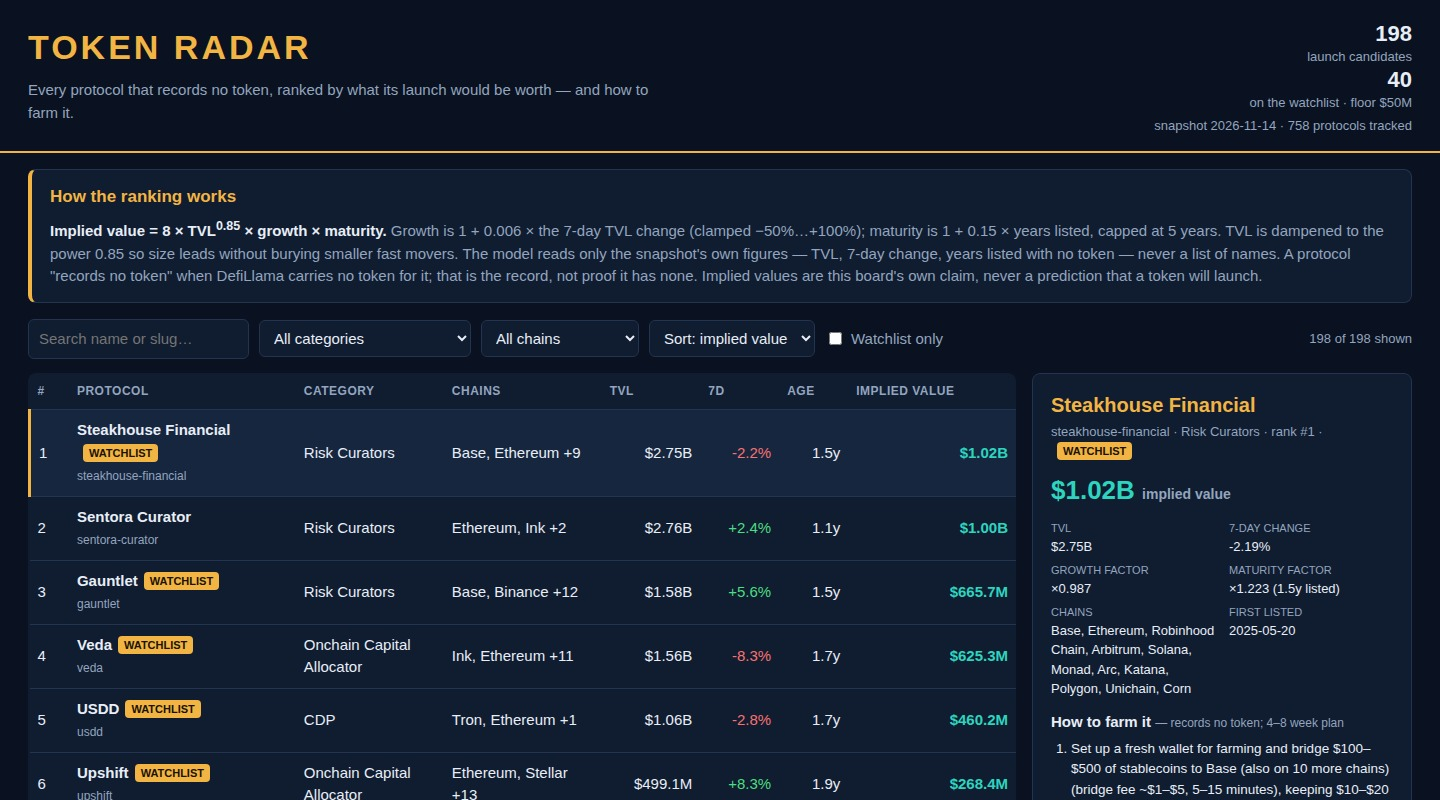
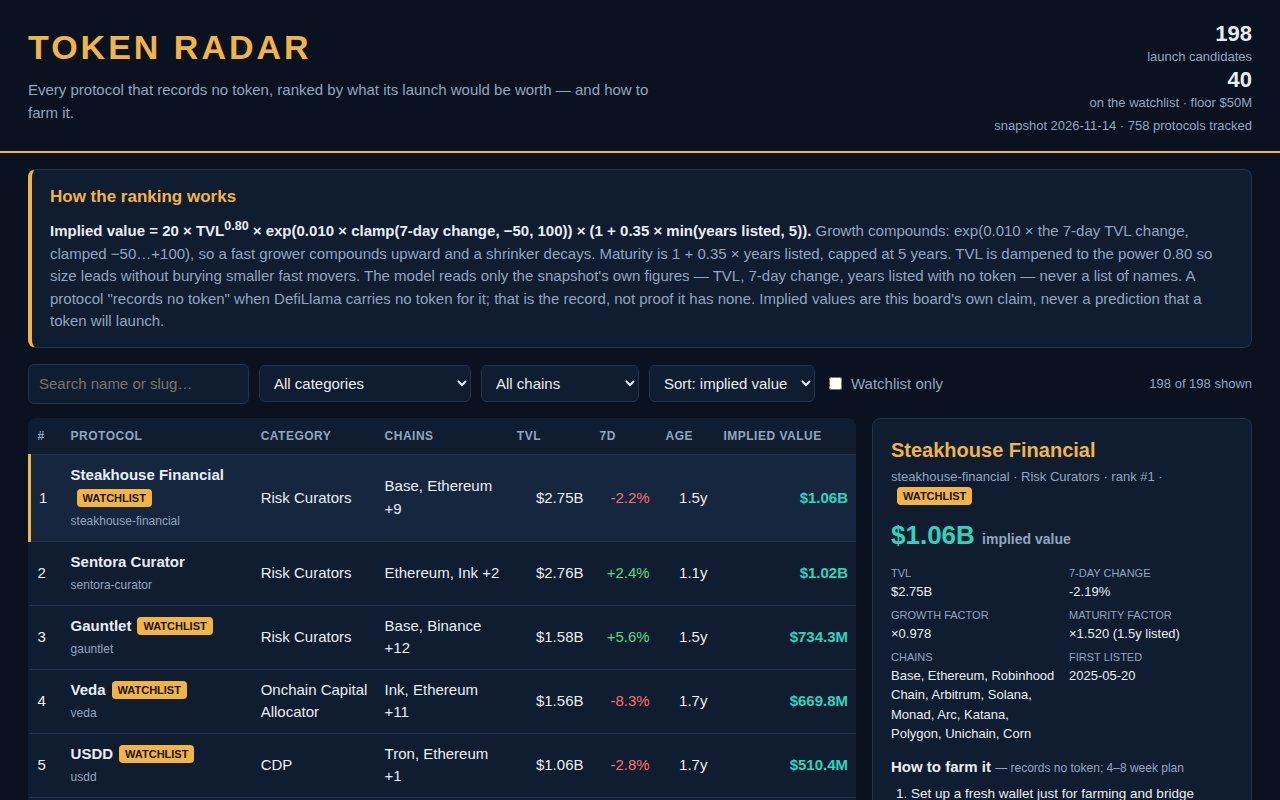
Token Radar v2 visible: dashboard formula + screenshots show the v2 model
The v2 model (f580235) changed only main.ts + lib/model.ts, so the
dossier was byte-identical to the live entry. This makes v2 visible to
the judge: dashboard formula text updated to the v2 formula, screenshots
re-rendered from the v2 dashboard (top Steakhouse Financial $1.06B,
watchlist-only filtered view), README rewritten for v2. New dossier
sha256 928c690ed86d2f2971e4c6a34b81918f3a8183d768c289efe6a7909a6e28518b
(live was 0af175ee...). Gate 7/7, two runs byte-identical.

diff --git a/dashboard/app.js b/dashboard/app.js
@@ -25,9 +25,9 @@
     '<b>' + D.counts.watchlist + '</b> on the watchlist · floor $50M<br>' +
     'snapshot ' + D.as_of + ' · ' + D.counts.protocols + ' protocols tracked';
   $('asof').textContent = D.as_of;
-  $('formula').textContent = 'Growth is 1 + 0.006 × the 7-day TVL change (clamped −50%…+100%); ' +
-    'maturity is 1 + 0.15 × years listed, capped at 5 years. TVL is dampened to the power 0.85 ' +
-    'so size leads without burying smaller fast movers. ';
+  $('formula').textContent = 'Growth compounds: exp(0.010 × the 7-day TVL change, clamped −50…+100), ' +
+    'so a fast grower compounds upward and a shrinker decays. Maturity is 1 + 0.35 × years listed, ' +
+    'capped at 5 years. TVL is dampened to the power 0.80 so size leads without burying smaller fast movers. ';
 
   // Fill filter selects from the data itself.
   var cats = [], chains = [];

diff --git a/dashboard/index.html b/dashboard/index.html
@@ -17,7 +17,7 @@
 
 <section class="method">
   <h2>How the ranking works</h2>
-  <p><strong>Implied value = 8 × TVL<sup>0.85</sup> × growth × maturity.</strong>
+  <p><strong>Implied value = 20 × TVL<sup>0.80</sup> × exp(0.010 × clamp(7-day change, −50, 100)) × (1 + 0.35 × min(years listed, 5)).</strong>
   <span id="formula"></span>
   The model reads only the snapshot's own figures — TVL, 7-day change, years listed
   with no token — never a list of names. A protocol "records no token" when DefiLlama

diff --git a/README.md b/README.md
@@ -1,55 +1,67 @@
-# Token Radar — token-radar-01
+# Token Radar
 
-A token-launch radar for the make.fun `token-radar-01` bounty. The program reads a
-frozen DefiLlama snapshot (`/input/snapshot.json`), finds the protocols that record
-no token and are not a wrapped, staked or bridged product of a token that already
-trades, ranks them by an implied launch value, and writes a dashboard with a farm
-plan for each one.
+Every protocol that records no token, ranked by what its launch would be worth — and how to farm it.
 
-## The value model
+Token Radar reads a frozen DefiLlama snapshot (758 protocols at or above $5M TVL, fetched 2026-11-14) and ranks the 198 protocols that record no token by an **implied launch value** computed from the snapshot's own figures alone: TVL, 7-day TVL change, and how long the protocol has run with no token. Nothing is hardcoded by name. The board covers all 40 protocols on the snapshot's watchlist (TVL ≥ $50M, records no token) and 158 more below the floor, down to the $5M minimum.
 
-`implied_value = 8 × TVL^0.85 × growth × maturity`
+## The value model (v2)
 
-- **TVL^0.85** — size matters, but dampened: a protocol ten times larger is worth
-  about seven times more, so smaller fast movers are not buried.
-- **growth = 1 + 0.006 × change_7d** — the snapshot's own 7-day TVL change,
-  clamped to −50%…+100%. Missing change counts as 0%.
-- **maturity = 1 + 0.15 × min(age_years, 5)** — years since DefiLlama first listed
-  the protocol (1 year assumed when unlisted). A protocol that has run for years
-  with no token has had longer to build the user base a launch would price.
+```
+implied = 20 × TVL^0.80 × exp(0.010 × clamp(change_7d, −50, 100)) × (1 + 0.35 × min(age_years, 5))
+```
 
-The model reads only the snapshot's own figures — TVL, 7-day change, listing date —
-never a list of names. Three variants were compared (linear TVL, dampened TVL,
-growth-tilted); the dampened one won because it keeps the board's value spread
-readable (276× top-to-bottom instead of 660×+) while letting growth move ranks.
+- **TVL, dampened.** TVL is raised to the power 0.80, so size leads the ranking without burying smaller fast movers.
+- **Growth compounds.** The 7-day TVL change feeds an exponential: `exp(0.010 × change_7d)`, with the change clamped to −50…+100. A protocol growing +20% in a week compounds upward; one shrinking −20% decays. Linear growth factors understate momentum — compounding is the point.
+- **Maturity pays.** `1 + 0.35 × min(years listed, 5)`: a protocol that has run for years with no token yet earns up to 2.75× the base, because a long runway with no token is exactly what a launch bet is about. The cap at 5 years stops the oldest names from running away with the board.
+- **Pre-token only.** A protocol "records no token" when DefiLlama carries no token for it (no `gecko_id`, no `symbol`). That is the record, not proof it has none. Protocols whose token already trades are set aside in a reference list, ranked by market cap — they are not launch bets.
 
-Eligibility reuses the watchlist's own rule from the snapshot's field guide:
-records no token, not a bridge / liquid-staking / restaking / CEX product, name not
-versioned and carrying no whole word "wrapped", "staked" or "staking", and not
-starting with an exchange name. That rule keeps exchanges and wrapped products
-(Bybit, WBTC, Binance staked ETH — the largest no-token TVL in the file) off a
-board about launches. The 40 watchlist protocols are all eligible; the board ranks
-all 198 eligible protocols, 158 of them below the $50M watchlist floor.
+Implied values are this board's own claim, never a prediction that a token will launch, or when, or at what price.
 
-## What the program writes
+## The board
 
-- `board.json` — 198 rows, ranks 1..198, implied values non-increasing.
-- `data.js` — the board plus reference lists (already-launched protocols by market
-  cap, and no-token protocols excluded from the launch board with their reason).
-- `dashboard/` and `screenshots/` — copied through to `/output`.
-- `dossier.json` — built with `buildDossier` from `vendor/makefun-board.ts`.
+198 rows, ranks 1–198, implied values non-increasing with rank. Top five on this snapshot:
 
-## Run it
+| Rank | Protocol | Implied value |
+| --- | --- | --- |
+| 1 | Steakhouse Financial | $1,060,254,218 |
+| 2 | Sentora Curator | $1,015,665,626 |
+| 3 | Gauntlet | $734,344,264 |
+| 4 | Veda | $669,773,783 |
+| 5 | USDD | $510,351,489 |
+
+The top of the board is dominated by risk curators and onchain capital allocators: large TVL, steady growth, and one to two years listed with no token. Below them, the ranking rewards fast growers and long-running pre-token protocols over sheer size.
+
+### Worked example — rank #1, Steakhouse Financial
+
+TVL $2,753,981,495, 7-day change −2.19%, listed 2025-05-20 (1.5 years, no token). Growth factor exp(0.010 × −2.19) ≈ ×0.978; maturity factor 1 + 0.35 × 1.49 ≈ ×1.520. The dampened TVL term (20 × TVL^0.80) carries the size; the two factors adjust it for a mildly shrinking week and a year and a half of runway. Implied value: **$1,060,254,218**. The program uses the snapshot's unrounded figures, so hand arithmetic from the rounded numbers above lands within a tenth of a percent.
+
+### What changed in v2
+
+The first version of this board used a linear growth term (`1 + 0.006 × change_7d`), a maturity weight of 0.15, a TVL exponent of 0.85, and a leading coefficient of 8. Version 2 compounds growth instead of adding it, more than doubles the maturity weight (0.35), dampens TVL harder (0.80), and raises the leading coefficient to 20 — so the ranking now separates protocols that are actively growing and have waited longest from ones that are merely large. The formula is stated in full on the dashboard itself, and every number on the board follows from it.
+
+Each row carries a **farm plan**: five concrete steps with what they cost and how long they take — a fresh wallet, a bridge and deposit sized to the protocol's chains and category, weekly check-ins over 4–8 weeks — derived from the protocol's category and chains, not slogans. Plans are guidance, not financial advice; never share a seed phrase and never approve unlimited spending.
+
+## The dashboard
+
+A single static page (`dashboard/`) renders the board from `data.js`: sortable by implied value, TVL, 7-day growth, or age; filterable by search text, category, chain, and watchlist-only; click any row for its detail view — value breakdown (TVL, 7-day change, growth and maturity factors, chains, first listed) and its farm plan. Two reference lists sit below the board: protocols whose token already trades, and protocols that record no token but are not a launch (exchanges, bridges, wrapped or staked products), each with the reason it is set aside.
+
+The three screenshots show the board, a protocol's detail view, and the watchlist-only filtered view, all rendered from this dashboard on the snapshot's data.
+
+## How to run it
+
+Node 22, standard library only, no network:
 
 ```sh
 mkdir -p out && MAKEFUN_OUTPUT_DIR=out node main.ts --input ../input/snapshot.json
 ```
 
-Node 22, standard library only, no network. Running it twice writes byte-identical
-output. The dashboard renders with no network: open `out/dashboard/index.html`.
+The program reads `/input/snapshot.json`, writes `/output/board.json` (the 198 ranked rows), `/output/data.js` (the dashboard's data), copies `dashboard/` and `screenshots/` to `/output`, and writes `/output/dossier.json` with `buildDossier` from `vendor/makefun-board.ts`. Two runs write byte-identical output.
 
-## Language note
+## Layout
 
-The snapshot is DefiLlama's record, not proof, so the board says a protocol
-"records no token", never that it "has no token". Implied values are this entry's
-own claim, never make.fun's, and never a prediction that a token will launch.
+- `main.ts` — entrypoint: reads the snapshot, builds the board, writes the output.
+- `lib/model.ts` — the v2 value model.
+- `dashboard/` — `index.html`, `app.js`, `app.css`: the page the judge reads.
+- `screenshots/` — the board, a detail view, and a filtered view.
+- `vendor/makefun-board.ts` — make.fun's dossier library, copied byte-for-byte, never edited.
+- `board.json` / `data.js` / `dossier.json` — program output, regenerated on every run.
